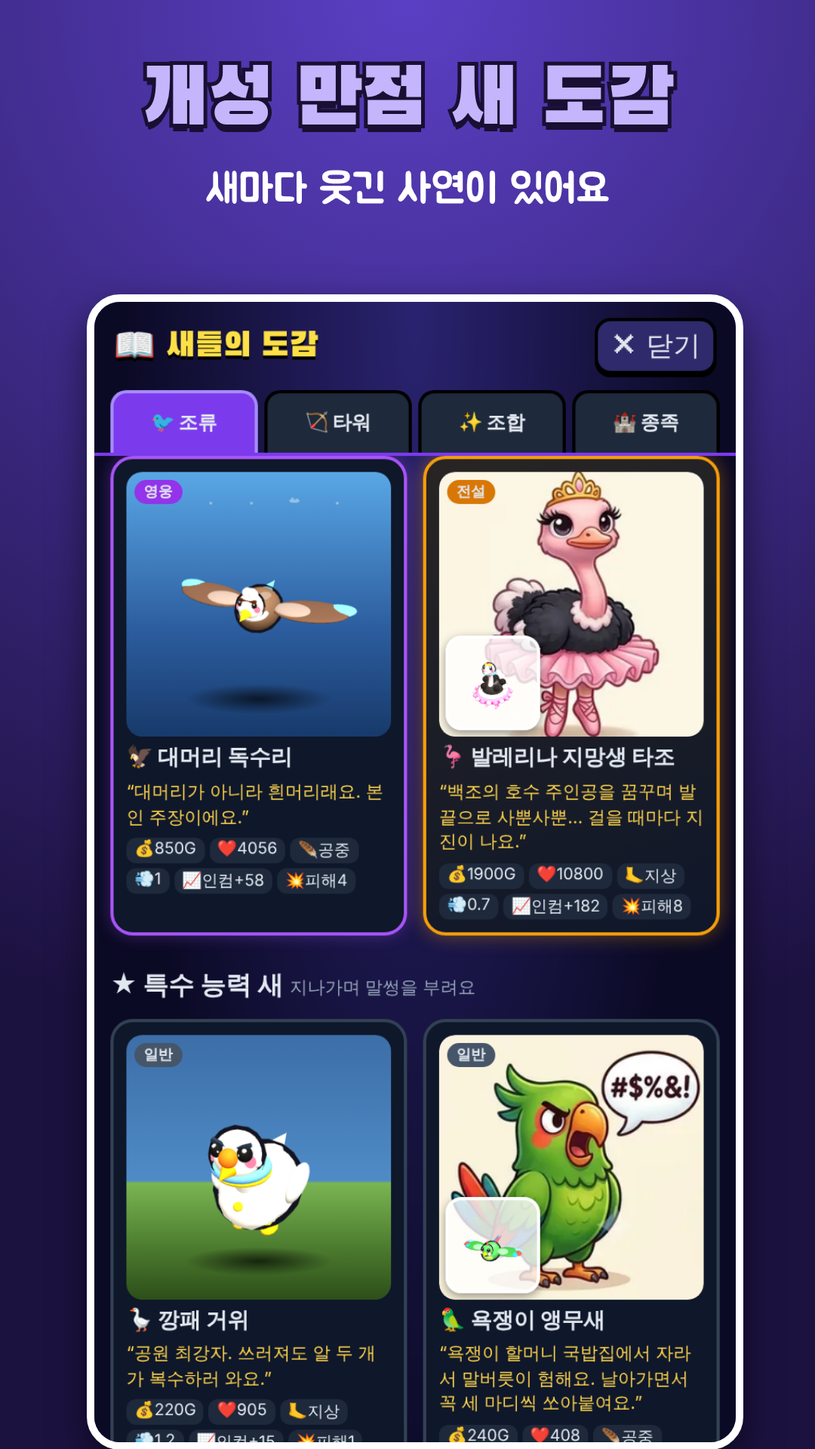
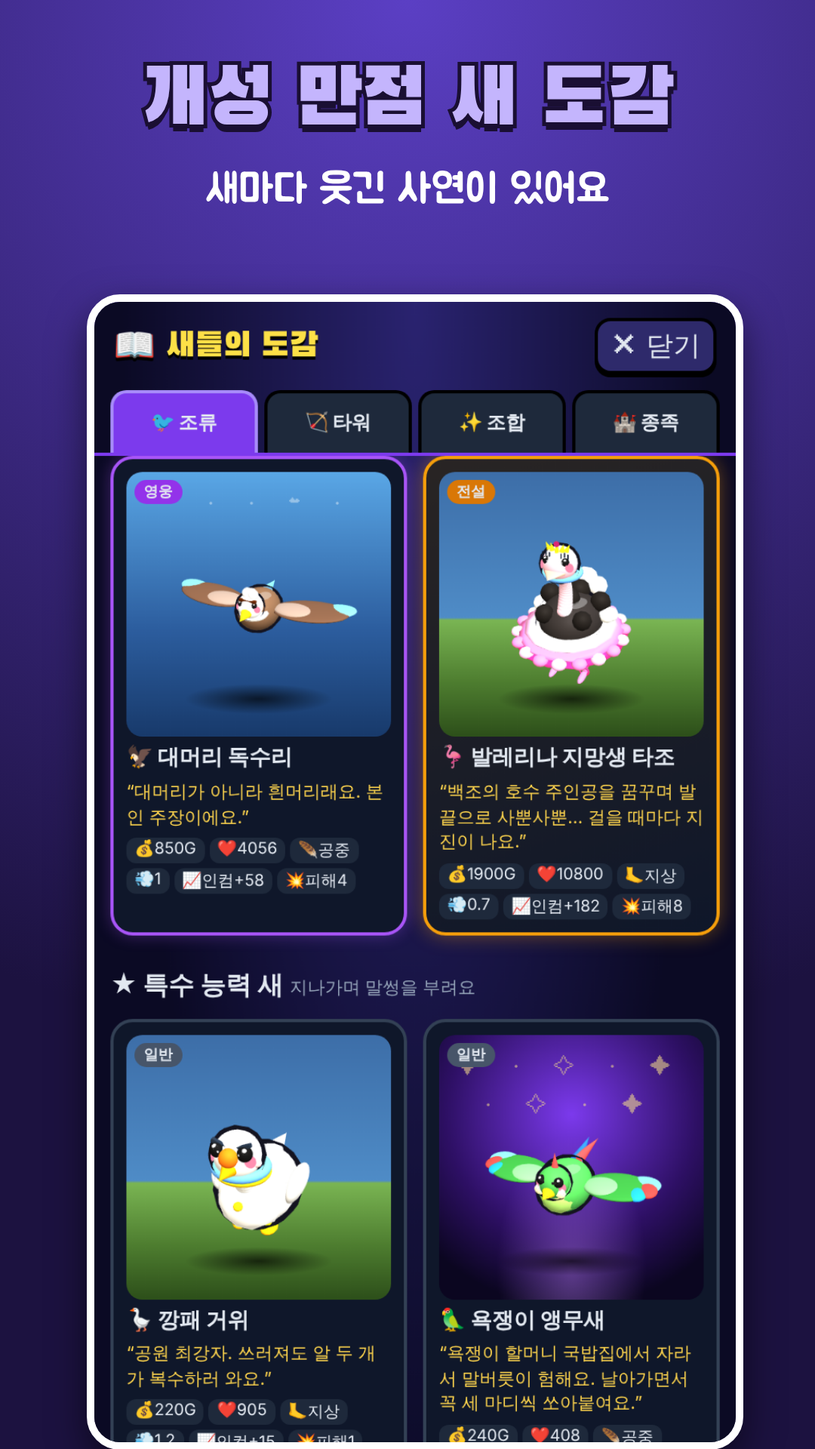
도감 일러스트 되돌리기(3D 썸네일 복원), 저장 초기화 버튼·?reset=1, 영웅 새 다듬기
- 영웅: 공중 새도 날개 접고 서 있게, 게임판용 외곽선·팀 고리 숨김, 전용 모자 있는 새는 영웅 모자 생략
- 앵무새 날개 끝 색은 날 때만
- 스토어 스크린샷 6번(도감)을 3D 썸네일로 다시 찍음

Claude-Session: https://claude.ai/code/session_01WdwmgQ1X9No8TXxhVpqQwz

Changed region(s): [[0.5194, 0.6875, 0.8861, 0.9062], [0.5194, 0.3125, 0.8861, 0.5312]]

diff --git a/index.html b/index.html
@@ -86,7 +86,7 @@
 <div id="tipm" class="dexm"><div class="dexh"><b>💡 게임 설명 · 팁</b><button id="tipx">✕ 닫기</button></div><div class="tipb"><div class="card"><b style="font-size:17px">📌 기본 설명</b><ul class="bs"><li>🎲 유닛을 보내면 상대 진영 입구 7칸 중 랜덤 1곳에서 출발하고, 보낼 때마다 4초마다 받는 인컴이 영구 증가해요.</li><li>🔮 속성 5종 중 2개를 골라요. 첫 속성은 무료, 두 번째는 300G이고 조합마다 전용 타워와 새가 열려요.</li><li>⏰ 7분부터 탈출한 새의 피해가 2배, 9분부터 3배가 돼요.</li><li>👀 도감 확인과 상대 정찰이 중요해요. 미니맵을 눌러 다른 진영을 보세요.</li></ul></div><div class="card"><b style="font-size:17px">🏹 타워 성격</b><ul class="bs"><li>⚡ <b>연사형</b>(공격 간격 0.8초 이하): 계속 쏠수록 공속이 최대 +50%까지 빨라지고, 적이 없으면 천천히 식어요.</li><li>💥 <b>강타형</b>(1.5초 이상): 3번째 공격마다 치명타 ×2, 맞은 새의 최대 체력 3%를 추가로 깎아요. 덩치 큰 새 담당!</li><li>☠ <b>독</b>: 맞을 때마다 독이 최대 5중첩. 광역 독 타워는 초록 독연기를 2.5초 남겨 지나가는 새에게 계속 독을 묻혀요.</li><li>🔥 <b>화상</b>: 중첩은 없지만 강하고, 불탄 채 쓰러지면 옆 새에게 불이 옮겨붙어요.</li><li>💰 강화 비용이 레벨마다 가파르게 올라요(1→2: 105%, 2→3: 252%, 3→4: 441%). 무작정 강화보다 배치가 중요해요.</li></ul></div>
 <h3>🪶 모드 · 깃털 코인</h3><ul class="bs"><li>🐥 <b>일반 모드</b>: 종족 없이 모든 새·타워를 공용으로 써요.</li><li>🪶 <b>승리하면 깃털 코인</b>을 얻어요. 난이도가 높을수록 많이 줘요.</li><li>🏰 코인을 모으면 <b>종족 모드</b>를 해금하고 종족 1개를 무료로 고를 수 있어요. 이후 종족은 코인으로 하나씩 해금해요.</li></ul>
 <h3>📌 게임 규칙 전체</h3><ul class="bs"><li>🏰 시작 전에 <b>종족</b>을 골라요. 종족마다 전용 타워 2종, 전용 새 2종, 고유 특성이 달라요. 상대 AI도 각자 다른 종족으로 나와요.</li><li>🎲 유닛을 보내면 상대 진영 입구 7칸 중 랜덤 1곳에서 출발해요.</li><li>💰 유닛을 보낼 때마다 4초마다 받는 인컴이 영구 증가해요.</li><li>⬡ 타일이 육각형이라 유닛이 6방향으로 길을 찾아요.</li><li>🔮 속성 5종(화염·빙결·뇌전·폭풍·독) 중 2개를 골라요. 첫 속성은 무료, 두 번째는 300G예요.</li><li>✨ 두 속성의 조합마다 전용 타워와 새가 열려요 (10가지 조합).</li><li>🌟 속성 2개를 고르면 조합 스킬을 1500G에 해금할 수 있어요 (미니맵 위 버튼).</li><li>⏰ 7분부터 탈출한 새의 피해가 2배, 9분부터 3배가 돼요.</li><li>📖 <b>도감 확인은 필수예요!</b> 새·타워의 숨은 능력, 속성 조합, 수상한 알의 비밀까지 도감에서 확인하세요.</li><li>👀 <b>상대 정찰도 중요한 전략이에요.</b> 미니맵을 눌러 다른 진영의 미로와 타워를 보고, 잘 뚫릴 새를 골라 보내세요.</li><li>🚫 첫 줄·마지막 줄에는 건설할 수 없고, 길을 완전히 막을 수 없어요.</li><li>🎯 적을 처치하면 유닛 가격의 10%를 보상으로 받아요.</li></ul>
-<h3>🛠 업데이트 내역</h3><details class="card" open><summary><b>🛠 패치 노트</b> <small class="m">(눌러서 펼치기)</small></summary><ul><li><b>v11.7</b> 📘 첫 판 튜토리얼(설명 화면에서 다시 보기) · 🖼 도감에 새 일러스트 24종 · 🎨 타조·회장닭·앵무새·펠리컨·악어새·오리·올빼미 등 3D 모습 다듬기</li><li><b>v11.6</b> 🔊 효과음을 실제 녹음 소리로: 버튼 딸깍, 건설 나무 소리, 철거 동전 짤랑, 새 쓰러짐 타격음, 라이프 피해 펀치, 탈락·후반 경고 종소리, 부화 알 깨짐, 승리·패배·해금 짧은 음악. 효과음: Kenney 오디오 팩 (CC0, kenney.nl)</li><li><b>v11.5</b> 🏝 게임판이 진짜 3D 육각 타일로! 진영마다 지형이 달라요: 🌿풀밭 · 🏜사막 · ⛰바위산 · 🪵흙 · 🏝바닷가 섬. 게임판 바깥엔 숲·언덕·산·바다·섬 타일 풍경. 3D 타일: Kenney Hexagon Kit (CC0, kenney.nl)</li><li><b>v11.4</b> 🏁 게임이 끝나면 <b>결과 표</b>: 8명의 등수(🥇🥈🥉)·인컴·상대에게 준 라이프 피해·막은 새·버틴 시간을 한눈에 (관전 후·온라인에서도). 🪶 공중 새 인컴 20% 하향 — 미로를 무시하는 대신 돈을 덜 벌어요</li><li><b>v11.3</b> 🐝 새 유닛 <b>윙윙 벌새 떼</b>(360G · 지상): 벌+벌새 모습, 5~7마리 떼로 등장, 강타형 타워(공격 간격 1.5초 이상)의 피해를 절반만 받아요 — 광역·연사 타워에 약해요. 🚌 새 유닛 <b>만원 버스 펠리컨</b>(3000G · 공중): 격추되면 부리 주머니에서 승객 새 8마리가 쏟아져 그 자리부터 걸어가요</li><li><b>v11.2</b> 🎨 만화풍 전투 화면: 상점이 3D 초상화 카드로(등급별 색 · 영웅/전설 리본, 선택하면 통통), 타워가 맞힐 때 피해 숫자가 톡톡(치명타는 노랗게), 큰 새 격추 시 "💥 격추!" 배너, 강화 타워 머리 위 ★별 뱃지, 모든 새에 만화풍 외곽선. 휴대폰이 느려지면 피해 숫자는 자동으로 꺼져요</li><li><b>v11.1</b> 🧩 난이도별 AI 미로: 🐓숙련 = 넓은 가로 뱀(길 ×1.9) · 🦅어려움 = 넓은 세로 뱀·대각선 뱀·빗살 중 하나(×2.2~2.6) · 🔥헬 = 가로 뱀·홀수 줄 가로 뱀·혼합·세로 뱀 중 하나(×2.5~3.0). 미로는 AI마다 좌우가 달라요. 헬 AI는 미로에 방해되면 가운데 알 타워도 철거해요. 미니맵으로 상대 미로를 정찰해 보세요!</li><li><b>v11.0</b> 🐍 <b>어려움·헬 AI가 뱀 모양 미로</b>를 짜요: 가로 줄을 한 줄 걸러 쌓고 끝 칸을 번갈아 비워 새가 좌우로 왕복하게 만들어요(AI마다 방향이 달라요). 시뮬레이션에서 이 방식은 우승 확률이 일반 AI의 약 2.7배(34%)였어요. 공중 새와 황새로 뚫어 보세요!</li><li><b>v10.9</b> 🎨 디자인 다듬기: 게임 화면(위쪽 바·골드 줄·탭·상점 버튼·정보 줄·옆 패널), 결과창, 도감·설명 화면을 로비와 같은 만화풍(굵은 테두리 + 그림자)으로 통일, 상점 글씨 키움. 📱 앱 아이콘(왕관 병아리)과 홈 화면에 설치하기(PWA) 지원</li><li><b>v10.8</b> 🌐 <b>8인 온라인 대전 (베타)</b>: 모드 선택 → 8인 온라인 대전 → 방 만들기로 5자리 방 코드와 초대 링크를 만들고, 친구는 코드를 넣거나 링크를 눌러 참가해요. 빈자리는 AI가 채워요. 방장 휴대폰이 게임을 계산하니 방장은 화면을 켜 두세요. (일반 모드만, 수상한 알 연구소는 방장만)</li><li><b>v10.7</b> 🐊 새 유닛 <b>악어 치과의사 악어새</b>(1600G · 타조 다음으로 튼튼): 악어를 타고 와요. 체력이 35% 아래로 떨어지면 악어가 화나서 1.6배 빨라져요(입을 쩍쩍 벌려요). 🧹 쓸데없는 몸 고리 정리: 종족 새 8종·백조·천둥새·불사조·태풍 독수리·오로라 덕후의 고리 삭제(팀 색 목걸이는 유지, 보호막은 체력바 색으로 표시)</li><li><b>v10.6</b> 🐣 부화 병아리 8종 새 모습: 둥근 병아리 몸 + 🐣 갓깬 삐약이(물음표) · 🍳 맥반석(구운 껍데기·양머리 수건) · 🍦 아이스(와플콘·소프트아이스크림) · 🔋 찌릿(정전기 머리) · 🎈 풍선(풍선 3개, 가운데는 팀 색) · 💨 방귀(기저귀·방귀 구름) · 🌟 황금(황금 껍데기·반짝이·동전) · 🦖 티라노(이빨·배 무늬)</li><li><b>v10.5</b> 🎭 새 이름·모습 변경: 🩰 <b>발레리나 지망생 타조</b>(튜튜·티아라·토슈즈) · 🎩 <b>알부자 회장닭</b>(실크햇·외알 안경·금목걸이) · 🛟 <b>피서 중인 튜브 오리</b>(튜브·선글라스·밀짚모자) · 🦜 <b>욕쟁이 앵무새</b>(날아가며 말풍선으로 세 마디!) · 🥁 <b>각설이 도도새</b>(새끼줄 머리띠·누더기·깡통·엿가위, 품바 춤) · 🥚 <b>펭귄알 소매치기</b>(남극 도둑갈매기, 펭귄알을 훔쳐 날아요)</li><li><b>v10.4</b> 👀 탈락해도 바로 끝나지 않아요: <b>관전하기</b>를 누르면 남은 AI들의 대결을 끝까지 볼 수 있어요(미니맵으로 진영 전환, 🚪 버튼으로 언제든 나가기). 탈락 화면에서 관전하기 · 다시 도전 · 나가기 중 선택</li><li><b>v10.3</b> 🎨 새 디자인 대개편: 나는 새 날개를 새 몸 색의 깃털 날개로(팀 색은 날개 끝), 땅 새는 몸 옆에 접힌 날개. 🪵 딱따구리(빨간 모자·끌 부리·쪼기 동작) · 💪 근육 타조(털 뭉치 몸·챔피언 벨트) · 🐧 펭귄 삼형제 · 🦤 도도 · 🦢 백조(S자 목) · 🦃 칠면조(중절모·부채 꼬리) · 🐥 병아리 · 🥚 수상한 알(줄무늬 양말 다리로 아장아장) 새 모양. 🦩 <b>육아휴직 황새</b>: 긴 다리로 타워를 넘어 직진. 종족 새 8종 별명 추가</li><li><b>v10.2</b> ✈ 바람 속성 2단계 타워 교체: 강풍 선풍기 → <b>비눗방울 막대</b>(새를 방울에 가둬 1.4초 둥실 띄우고, 터질 때 2배 피해 · 갇힌 지상 새는 대공 타워에도 맞아요 · 넉백 면역 새는 안 갇혀요). 진화: 비눗방울 기계 → 비눗방울 대포 → 거품 목욕탕 대왕</li><li><b>v10.1</b> 🪶 일반 모드 + 종족 모드 통합: 시작 화면에서 모드 선택, 일반 모드 승리로 깃털 코인 획득 → 코인으로 종족 모드 해금(종족 1개 무료 선택) → 이후 종족은 코인으로 해금. 첫 화면 간소화(기본 설명 4줄 + 상세보기·팁)</li><li><b>v10.0</b> 🏰 종족전: 오리지널 새 종족 4종(🏰둥지 연합 · 🦅맹금 군단 · 🌙황혼 깃털단 · 🌿숲 지킴이), 종족별 고유 특성·전용 타워 8종·전용 새 8종, 종족 도감 탭, AI도 종족을 골라 싸워요</li><li><b>v9.11</b> 🎚 난이도 5단계(🐣쉬움 · 🐥일반 · 🐓숙련 신규 · 🦅어려움 · 🔥헬). 🧬 타워 진화: 강화 Lv.1~4마다 이름과 모양이 바뀌어요(예: 알까기 새총 → 새권총 → 새개틀링건). 도감에서 진화 단계 확인. 🎨 타워 33종 모양을 이름에 맞게 새로 디자인. 정보 패널 높이 고정(보드 흔들림 수정), 부엉이 CCTV는 감지 범위 표시</li><li><b>v9.10</b> 🎚 난이도 4단계, 길찾기 좌우 편향 수정, 도감·정찰 안내</li><li><b>v9.9</b> 🍤 과자 연속 5개, 📹 부엉이 CCTV(은신 감지)</li><li><b>v9.8</b> 🔗 참새 전봇대: 지상 ×0.8 · 공중 ×2.4 감전</li><li><b>v9.7</b> 🎯 내 새 추적 미니맵(오른쪽 위)</li><li><b>v9.6</b> 🍤 과자 뿌리개, 🔗 참새 전봇대, 🥅 잠자리채 그물포 공용 타워 3종</li><li><b>v9.5</b> 🏢 스튜디오 첫 스프린트: 🔊 효과음·칩튠 배경음악, 🎨 새 표정·맵 장식·파티클, 🥚 수상한 알 연구소(한 판 단위 해금), 🧪 QA 수정</li><li><b>v9.4</b> 📖 3페이지 카드 도감, 🎭 웃긴 이름과 개그 설명</li><li><b>v9.3</b> 메모리 누수·경제 폭주 수정, 맵 7×16, 넉백 쿨다운, 알 강화 표시, 조합 스킬 10종, 5초 카운트다운, 500판 밸런스(평균 8분 50초)</li><li><b>v9.2</b> 🐛 AI 미작동 버그 수정, 🔮 속성 2개 선택 + ✨ 조합 타워·새 10종, 상점 6칸</li><li><b>v9.1</b> 🔮 속성 테크 5종, 새 9종 추가(거위·까마귀·딱따구리·백조·공작·송골매·황제펭귄·알바트로스·천둥새), 📖 조류 도감</li><li><b>v9.0</b> ⬡ 육각 타일 맵(6방향 길찾기), 유닛 체력 2배 밸런스, AI 7명 시뮬레이션 100판 학습</li><li><b>v8.3</b> 보드 확대·미니맵 우하단 이동·하단 UI 가림 수정, AI 개성화(매 판 목표·건설 순서 변화, 수시 기분 전환, 위협 반응), 8분에 타이탄 6마리를 막는 방어력 목표(화면의 🛡 100% = 목표), 정찰 중 타워 상점을 누르면 내 화면으로 복귀</li><li><b>v8.2</b> 인컴 주기 4초·유닛 인컴 +40%, AI 시뮬레이션 미로 배치(경로 길이 계산), 내 경로 표시, 강화 버튼 개선, 관전 중 AI 성향 표시</li><li><b>v8.1</b> 유닛 16종·타워 9종 세부 3D 모델 (천둥: 테슬라 코일 / 바람: 회오리+풍차), 날갯짓·회전 애니메이션</li><li><b>v8.1</b> AI가 인컴이 목표보다 낮을수록 유닛을 더 자주 소환해요</li><li><b>v8.1</b> 매 판 내 자리가 1~8번 중 랜덤으로 배정돼요</li><li><b>v8.0</b> 7인 AI 성향 분리, 게임 시간 표시, 입구 8칸 경로 검증, 적 처치 보상</li></ul></details>
+<h3>🛠 업데이트 내역</h3><details class="card" open><summary><b>🛠 패치 노트</b> <small class="m">(눌러서 펼치기)</small></summary><ul><li><b>v11.7</b> 📘 첫 판 튜토리얼(설명 화면에서 다시 보기) · 🗑 설명 화면에 '처음부터 다시' 초기화 버튼 · 🦸 영웅 새 다듬기(공중 새도 서 있게, 외곽선·모자 겹침 정리) · 🎨 타조·회장닭·앵무새·펠리컨·악어새·오리·올빼미 등 3D 모습 다듬기</li><li><b>v11.6</b> 🔊 효과음을 실제 녹음 소리로: 버튼 딸깍, 건설 나무 소리, 철거 동전 짤랑, 새 쓰러짐 타격음, 라이프 피해 펀치, 탈락·후반 경고 종소리, 부화 알 깨짐, 승리·패배·해금 짧은 음악. 효과음: Kenney 오디오 팩 (CC0, kenney.nl)</li><li><b>v11.5</b> 🏝 게임판이 진짜 3D 육각 타일로! 진영마다 지형이 달라요: 🌿풀밭 · 🏜사막 · ⛰바위산 · 🪵흙 · 🏝바닷가 섬. 게임판 바깥엔 숲·언덕·산·바다·섬 타일 풍경. 3D 타일: Kenney Hexagon Kit (CC0, kenney.nl)</li><li><b>v11.4</b> 🏁 게임이 끝나면 <b>결과 표</b>: 8명의 등수(🥇🥈🥉)·인컴·상대에게 준 라이프 피해·막은 새·버틴 시간을 한눈에 (관전 후·온라인에서도). 🪶 공중 새 인컴 20% 하향 — 미로를 무시하는 대신 돈을 덜 벌어요</li><li><b>v11.3</b> 🐝 새 유닛 <b>윙윙 벌새 떼</b>(360G · 지상): 벌+벌새 모습, 5~7마리 떼로 등장, 강타형 타워(공격 간격 1.5초 이상)의 피해를 절반만 받아요 — 광역·연사 타워에 약해요. 🚌 새 유닛 <b>만원 버스 펠리컨</b>(3000G · 공중): 격추되면 부리 주머니에서 승객 새 8마리가 쏟아져 그 자리부터 걸어가요</li><li><b>v11.2</b> 🎨 만화풍 전투 화면: 상점이 3D 초상화 카드로(등급별 색 · 영웅/전설 리본, 선택하면 통통), 타워가 맞힐 때 피해 숫자가 톡톡(치명타는 노랗게), 큰 새 격추 시 "💥 격추!" 배너, 강화 타워 머리 위 ★별 뱃지, 모든 새에 만화풍 외곽선. 휴대폰이 느려지면 피해 숫자는 자동으로 꺼져요</li><li><b>v11.1</b> 🧩 난이도별 AI 미로: 🐓숙련 = 넓은 가로 뱀(길 ×1.9) · 🦅어려움 = 넓은 세로 뱀·대각선 뱀·빗살 중 하나(×2.2~2.6) · 🔥헬 = 가로 뱀·홀수 줄 가로 뱀·혼합·세로 뱀 중 하나(×2.5~3.0). 미로는 AI마다 좌우가 달라요. 헬 AI는 미로에 방해되면 가운데 알 타워도 철거해요. 미니맵으로 상대 미로를 정찰해 보세요!</li><li><b>v11.0</b> 🐍 <b>어려움·헬 AI가 뱀 모양 미로</b>를 짜요: 가로 줄을 한 줄 걸러 쌓고 끝 칸을 번갈아 비워 새가 좌우로 왕복하게 만들어요(AI마다 방향이 달라요). 시뮬레이션에서 이 방식은 우승 확률이 일반 AI의 약 2.7배(34%)였어요. 공중 새와 황새로 뚫어 보세요!</li><li><b>v10.9</b> 🎨 디자인 다듬기: 게임 화면(위쪽 바·골드 줄·탭·상점 버튼·정보 줄·옆 패널), 결과창, 도감·설명 화면을 로비와 같은 만화풍(굵은 테두리 + 그림자)으로 통일, 상점 글씨 키움. 📱 앱 아이콘(왕관 병아리)과 홈 화면에 설치하기(PWA) 지원</li><li><b>v10.8</b> 🌐 <b>8인 온라인 대전 (베타)</b>: 모드 선택 → 8인 온라인 대전 → 방 만들기로 5자리 방 코드와 초대 링크를 만들고, 친구는 코드를 넣거나 링크를 눌러 참가해요. 빈자리는 AI가 채워요. 방장 휴대폰이 게임을 계산하니 방장은 화면을 켜 두세요. (일반 모드만, 수상한 알 연구소는 방장만)</li><li><b>v10.7</b> 🐊 새 유닛 <b>악어 치과의사 악어새</b>(1600G · 타조 다음으로 튼튼): 악어를 타고 와요. 체력이 35% 아래로 떨어지면 악어가 화나서 1.6배 빨라져요(입을 쩍쩍 벌려요). 🧹 쓸데없는 몸 고리 정리: 종족 새 8종·백조·천둥새·불사조·태풍 독수리·오로라 덕후의 고리 삭제(팀 색 목걸이는 유지, 보호막은 체력바 색으로 표시)</li><li><b>v10.6</b> 🐣 부화 병아리 8종 새 모습: 둥근 병아리 몸 + 🐣 갓깬 삐약이(물음표) · 🍳 맥반석(구운 껍데기·양머리 수건) · 🍦 아이스(와플콘·소프트아이스크림) · 🔋 찌릿(정전기 머리) · 🎈 풍선(풍선 3개, 가운데는 팀 색) · 💨 방귀(기저귀·방귀 구름) · 🌟 황금(황금 껍데기·반짝이·동전) · 🦖 티라노(이빨·배 무늬)</li><li><b>v10.5</b> 🎭 새 이름·모습 변경: 🩰 <b>발레리나 지망생 타조</b>(튜튜·티아라·토슈즈) · 🎩 <b>알부자 회장닭</b>(실크햇·외알 안경·금목걸이) · 🛟 <b>피서 중인 튜브 오리</b>(튜브·선글라스·밀짚모자) · 🦜 <b>욕쟁이 앵무새</b>(날아가며 말풍선으로 세 마디!) · 🥁 <b>각설이 도도새</b>(새끼줄 머리띠·누더기·깡통·엿가위, 품바 춤) · 🥚 <b>펭귄알 소매치기</b>(남극 도둑갈매기, 펭귄알을 훔쳐 날아요)</li><li><b>v10.4</b> 👀 탈락해도 바로 끝나지 않아요: <b>관전하기</b>를 누르면 남은 AI들의 대결을 끝까지 볼 수 있어요(미니맵으로 진영 전환, 🚪 버튼으로 언제든 나가기). 탈락 화면에서 관전하기 · 다시 도전 · 나가기 중 선택</li><li><b>v10.3</b> 🎨 새 디자인 대개편: 나는 새 날개를 새 몸 색의 깃털 날개로(팀 색은 날개 끝), 땅 새는 몸 옆에 접힌 날개. 🪵 딱따구리(빨간 모자·끌 부리·쪼기 동작) · 💪 근육 타조(털 뭉치 몸·챔피언 벨트) · 🐧 펭귄 삼형제 · 🦤 도도 · 🦢 백조(S자 목) · 🦃 칠면조(중절모·부채 꼬리) · 🐥 병아리 · 🥚 수상한 알(줄무늬 양말 다리로 아장아장) 새 모양. 🦩 <b>육아휴직 황새</b>: 긴 다리로 타워를 넘어 직진. 종족 새 8종 별명 추가</li><li><b>v10.2</b> ✈ 바람 속성 2단계 타워 교체: 강풍 선풍기 → <b>비눗방울 막대</b>(새를 방울에 가둬 1.4초 둥실 띄우고, 터질 때 2배 피해 · 갇힌 지상 새는 대공 타워에도 맞아요 · 넉백 면역 새는 안 갇혀요). 진화: 비눗방울 기계 → 비눗방울 대포 → 거품 목욕탕 대왕</li><li><b>v10.1</b> 🪶 일반 모드 + 종족 모드 통합: 시작 화면에서 모드 선택, 일반 모드 승리로 깃털 코인 획득 → 코인으로 종족 모드 해금(종족 1개 무료 선택) → 이후 종족은 코인으로 해금. 첫 화면 간소화(기본 설명 4줄 + 상세보기·팁)</li><li><b>v10.0</b> 🏰 종족전: 오리지널 새 종족 4종(🏰둥지 연합 · 🦅맹금 군단 · 🌙황혼 깃털단 · 🌿숲 지킴이), 종족별 고유 특성·전용 타워 8종·전용 새 8종, 종족 도감 탭, AI도 종족을 골라 싸워요</li><li><b>v9.11</b> 🎚 난이도 5단계(🐣쉬움 · 🐥일반 · 🐓숙련 신규 · 🦅어려움 · 🔥헬). 🧬 타워 진화: 강화 Lv.1~4마다 이름과 모양이 바뀌어요(예: 알까기 새총 → 새권총 → 새개틀링건). 도감에서 진화 단계 확인. 🎨 타워 33종 모양을 이름에 맞게 새로 디자인. 정보 패널 높이 고정(보드 흔들림 수정), 부엉이 CCTV는 감지 범위 표시</li><li><b>v9.10</b> 🎚 난이도 4단계, 길찾기 좌우 편향 수정, 도감·정찰 안내</li><li><b>v9.9</b> 🍤 과자 연속 5개, 📹 부엉이 CCTV(은신 감지)</li><li><b>v9.8</b> 🔗 참새 전봇대: 지상 ×0.8 · 공중 ×2.4 감전</li><li><b>v9.7</b> 🎯 내 새 추적 미니맵(오른쪽 위)</li><li><b>v9.6</b> 🍤 과자 뿌리개, 🔗 참새 전봇대, 🥅 잠자리채 그물포 공용 타워 3종</li><li><b>v9.5</b> 🏢 스튜디오 첫 스프린트: 🔊 효과음·칩튠 배경음악, 🎨 새 표정·맵 장식·파티클, 🥚 수상한 알 연구소(한 판 단위 해금), 🧪 QA 수정</li><li><b>v9.4</b> 📖 3페이지 카드 도감, 🎭 웃긴 이름과 개그 설명</li><li><b>v9.3</b> 메모리 누수·경제 폭주 수정, 맵 7×16, 넉백 쿨다운, 알 강화 표시, 조합 스킬 10종, 5초 카운트다운, 500판 밸런스(평균 8분 50초)</li><li><b>v9.2</b> 🐛 AI 미작동 버그 수정, 🔮 속성 2개 선택 + ✨ 조합 타워·새 10종, 상점 6칸</li><li><b>v9.1</b> 🔮 속성 테크 5종, 새 9종 추가(거위·까마귀·딱따구리·백조·공작·송골매·황제펭귄·알바트로스·천둥새), 📖 조류 도감</li><li><b>v9.0</b> ⬡ 육각 타일 맵(6방향 길찾기), 유닛 체력 2배 밸런스, AI 7명 시뮬레이션 100판 학습</li><li><b>v8.3</b> 보드 확대·미니맵 우하단 이동·하단 UI 가림 수정, AI 개성화(매 판 목표·건설 순서 변화, 수시 기분 전환, 위협 반응), 8분에 타이탄 6마리를 막는 방어력 목표(화면의 🛡 100% = 목표), 정찰 중 타워 상점을 누르면 내 화면으로 복귀</li><li><b>v8.2</b> 인컴 주기 4초·유닛 인컴 +40%, AI 시뮬레이션 미로 배치(경로 길이 계산), 내 경로 표시, 강화 버튼 개선, 관전 중 AI 성향 표시</li><li><b>v8.1</b> 유닛 16종·타워 9종 세부 3D 모델 (천둥: 테슬라 코일 / 바람: 회오리+풍차), 날갯짓·회전 애니메이션</li><li><b>v8.1</b> AI가 인컴이 목표보다 낮을수록 유닛을 더 자주 소환해요</li><li><b>v8.1</b> 매 판 내 자리가 1~8번 중 랜덤으로 배정돼요</li><li><b>v8.0</b> 7인 AI 성향 분리, 게임 시간 표시, 입구 8칸 경로 검증, 적 처치 보상</li></ul></details>
 </div></div>
 <div id="dexm" class="dexm"><div class="dexh"><b>📖 새들의 도감</b><button id="dexx">✕ 닫기</button></div><div class="dext" id="dext"><button data-p="u" class="on">🐦 조류</button><button data-p="t">🏹 타워</button><button data-p="c">✨ 조합</button><button data-p="r">🏰 종족</button></div><div id="dexb" class="dexb"></div></div><div id="end"><div><div id="eT" style="font-size:44px"></div><h2 id="eH" style="margin:6px 0"></h2><p id="eP" class="m"></p><div id="eres"></div><div id="ew"></div>
 <button class="big" id="spec" style="display:none;background:#2563eb;margin-bottom:10px">👀 관전하기</button><button class="big" id="again">다시 도전</button><br><br><button id="home" style="width:100%;padding:10px">🚪 나가기 (메인 화면)</button></div></div>

diff --git a/js/game.js b/js/game.js
@@ -613,7 +613,7 @@ function birdMesh2(b,oc){const g=new THREE.Group(),id=b.id,A=b.t==='A',c=b.col,w
   const bk={kiwi:[.025,.42,0xd97706],duck:[.08,.2,0xfacc15],dodo:[.1,.32,0xf4a259],swan:[.045,.14,0xf97316],penguin:[.035,.13,0x1f2937],frostpeng:[.035,.13,0x312e81],crane:[.035,.28,0xd6d3a0],blizgull:[.04,.22,0xf97316],stormeagle:[.07,.22,0xfacc15],comet:[.05,.14,0xfacc15],eagle:[.07,.22,0xfacc15],parrot:[.07,.16,0xfacc15],owl:[.04,.1,0xca8a04],ostrich:[.06,.17,0xe0a088],knight:[.04,.34,0xef4444],humbee:[.016,.3,0x111827],pelican:[.07,.5,0xf59e0b],crocbird:[.035,.15,0x1f2937],woodpecker:[.035,.3,0x57534e],turkey:[.05,.14,0xf59e0b]}[id]||[.055,.16,0xf59e0b];
   const k=KO(bk[0],bk[1],bk[2]);k.rotation.z=PI;at(k,0,hy-hr-bk[1]/2+.04,hz-.03,id==='duck'?[1.8,1,.5]:tall?[1.6,1,.55]:null)}
  if(id!=='kiwi'&&id!=='egg_legs'&&!PENG[id]&&!tall){const big=['eagle','phoenix','owl','vampire','stormeagle','auroraowl','pelican'].includes(id),wl=A?(big?.46:id==='hatch_wind'?.17:.34):.15,wc=WINGC[id]??(A?dkn3(c,.85):c);
-  [-1,1].forEach(s=>{const P=new THREE.Group();P.position.set(s*.2,0,z0+.06);g.add(P);const W=SP(1,A?wc:(WINGC[id]??dkn3(c,.88)),id==='phoenix'?GL(0xf97316):{});if(A){W.scale.set(wl,.25,.045);W.position.set(s*wl*.95,.04,0)}else{W.scale.set(.06,.19,.12);W.position.set(s*.05,.03,-.02);W.rotation.y=s*.25}if(A)W.rotation.z=s*.2;if(id==='swan'){W.rotation.y=-s*.4;W.position.set(s*wl*.9,.04,wl*.39)}if(id==='parrot')[[0xe53935,1.75,.07],[0x1e88e5,1.5,-.02]].forEach(([q,k,y])=>{const t=SP(1,q);t.scale.set(wl*.3,.13,.04);t.position.set(s*wl*k,y,0);t.rotation.z=s*.2;P.add(t)});P.add(W);
+  [-1,1].forEach(s=>{const P=new THREE.Group();P.position.set(s*.2,0,z0+.06);g.add(P);const W=SP(1,A?wc:(WINGC[id]??dkn3(c,.88)),id==='phoenix'?GL(0xf97316):{});if(A){W.scale.set(wl,.25,.045);W.position.set(s*wl*.95,.04,0)}else{W.scale.set(.06,.19,.12);W.position.set(s*.05,.03,-.02);W.rotation.y=s*.25}if(A)W.rotation.z=s*.2;if(id==='swan'){W.rotation.y=-s*.4;W.position.set(s*wl*.9,.04,wl*.39)}if(id==='parrot'&&A)[[0xe53935,1.75,.07],[0x1e88e5,1.5,-.02]].forEach(([q,k,y])=>{const t=SP(1,q);t.scale.set(wl*.3,.13,.04);t.position.set(s*wl*k,y,0);t.rotation.z=s*.2;P.add(t)});P.add(W);
    if(A&&id!=='vampire'){const cv=SP(1,ltn3(wc));cv.scale.set(wl*.55,.16,.05);cv.position.set(s*wl*.55,-.03,id==='swan'?wl*.22+.012:.012);if(id==='swan')cv.rotation.y=-s*.4;P.add(cv)}
    if(A){const tp=SP(1,oc);tp.scale.set(wl*.5,.15,.035);tp.rotation.z=s*.45;tp.position.set(s*wl*1.6,.16,id==='swan'?wl*.72:0);if(id==='swan')tp.rotation.y=-s*.4;P.add(tp);w.push(P)}})}
  if(PENG[id])at(TR(.22,.025,oc),0,0,.5);else if(CHICKY[id])at(TR(.2,.028,oc),0,-.02,.44);else if(id==='crocbird')at(TR(.12,.025,oc),0,-.13,.6);else if(id==='swan')at(TR(.085,.025,oc),0,-.12,.6);else if(!A&&id!=='egg_legs')at(TR(.15,.03,oc),0,hy+.05,hz-.1);
@@ -2339,9 +2339,7 @@ const dxQ=f=>/^["“]/.test(f||'')?f:'“'+f+'”';const tier=c=>c>=1000?'lg':c>
 const dxBadge=x=>x.race?`<em>${RACE[x.race].ic} ${RACE[x.race].n} 전용</em>`:x.tech?`<em>${TECH[x.tech].ic} ${TECH[x.tech].n} 전용</em>`:x.combo?`<em>${x.combo.map(k=>TECH[k].ic).join('')} 조합</em>`:'';
 const DXTH={humbee:'meadow',pelican:'sky',crocbird:'water',penguin:'ice',frostpeng:'ice',blizgull:'ice',auroraowl:'aurora',dodo:'stage',phoenix:'fire',plasmabird:'fire',comet:'sky',swan:'water',duck:'water',seagull:'water',pirate:'ice',albatross:'sky',peacock:'stage',parrot:'stage',rooster:'stage',owl:'night',crow:'night',ghostcrow:'night',vampire:'night',plague:'night',voltbat:'storm',thunderbird:'storm',stormeagle:'storm',crane:'spa',falcon:'sky',eagle:'sky'};
 const dxTh=u=>DXTH[u.id]||(u.hidden||u.id==='egg_legs'?'lab':u.tech==='fire'?'fire':u.tech==='ice'?'ice':u.tech==='thunder'?'storm':u.tech==='wind'?'sky':u.tech==='dark'?'night':u.race?'stage':u.t==='A'?'sky':'meadow');
-// 도감 일러스트(assets/units/*.webp, 256px): 있으면 큰 그림 + 3D 모습은 작은 창으로. 도감을 열 때만 불러와요(lazy)
-const ILL=new Set('chick,egg_legs,turkey,woodpecker,swan,penguin,dodo,parrot,ostrich,eggchief,pelican,crocbird,humbee,duck,crow,owl,hatch_chick,hatch_fire,hatch_ice,hatch_thunder,hatch_wind,hatch_dark,hatch_gold,hatch_dino'.split(','));
-const dxImg=k=>{const d3=DXC[k]?`<img src="${DXC[k]}" alt="">`:'<i class="noimg">🐦</i>';if(k.startsWith('u_')&&ILL.has(k.slice(2)))return `<img class="ill" src="assets/units/${k.slice(2)}.webp" loading="lazy" decoding="async" alt="">${DXC[k]?`<img class="d3" src="${DXC[k]}" alt="">`:''}`;return d3};
+const dxImg=k=>DXC[k]?`<img src="${DXC[k]}" alt="">`:'<i class="noimg">🐦</i>';
 function cardU(u){const k=tier(u.c);return `<div class="cd ${k}"><div class="ci" data-th="${dxTh(u)}">${dxImg('u_'+u.id)}<span class="tr ${k}">${TIERN[k]}</span>${dxBadge(u)}</div><div class="cn">${u.ic} ${u.n}</div><div class="cf">${dxQ(u.fl)}</div>
  <div class="cs"><span>💰${u.c}G</span><span>❤${u.hp}</span><span>${u.t==='A'?'🪶공중':'🦶지상'}</span><span>💨${u.sp}</span><span>📈인컴+${u.inc}</span><span>💥피해${u.dm}</span></div>${u.x?`<div class="cx">✨ ${u.x}</div>`:''}</div>`}
 function cardT(t){const k=t.combo?'lg':t.race?'ep':t.tech?(t.c>=380?'ep':'rr'):'cm',tg=t.t==='A'?'공중만':t.t==='G'?'지상만':'공중+지상';
@@ -2424,10 +2422,11 @@ if(!SV.hero||!UB[SV.hero.id])SV.hero={id:'chick',col:null,hat:'crown',face:'none
 function heroTag(){try{return UB[SV.hero.id].ic+SV.hero.name}catch(e){return '나'}}
 const hexS=c=>'#'+c.toString(16).padStart(6,'0');
 function headPos(id){const tall=id==='ostrich',z0=tall?.6:.26+(LIFT[id]||0);if(HEADX[id])return HEADX[id];return{hz:tall?1.3:z0+.2,hy:tall?-.28:-.3,hr:id==='owl'?.2:id==='chick'?.17:.15}}
+const HOWN=new Set(['turkey','pirate','duck','eggchief','comet','thunderbird','ghostcrow','seagull','stormeagle','pelican','blizgull']);
 function heroDeco(m,b,cfg){const{hz,hy,hr}=headPos(b.id),top=hz+hr,g=new THREE.Group();g.name='heroDeco';g.position.y=hy;m.add(g);
  const put=(o,x,y,z,rx,ry,rz,s)=>{o.position.set(x,y,z);o.rotation.set(rx||0,ry||0,rz||0);if(s)o.scale.set(s[0],s[1],s[2]);g.add(o);return o};
  const dome=(r,c)=>M(GC('hdome'+r,()=>new THREE.SphereGeometry(r,22,10,0,PI*2,0,PI/2)),c),GLD={metalness:.55,roughness:.3};
- const h=cfg.hat,f=cfg.face,s1=hr/.15;
+ const h=HOWN.has(b.id)?'none':cfg.hat,f=cfg.face,s1=hr/.15;// 전용 모자가 있는 새는 겹치지 않게 영웅 모자를 안 씌워요
  if(h==='crown'){put(TR(.1*s1,.022,0xfacc15,GLD),0,0,top-.015);for(let i=0;i<5;i++){const a=i*PI*2/5;put(KO(.032,.1,0xfacc15,GLD),Math.cos(a)*.1*s1,Math.sin(a)*.1*s1,top+.035,PI/2)}put(SP(.026,0xef4444),0,-.1*s1,top+.01)}
  else if(h==='beanie'){put(dome(hr*1.06,0xef4444),0,0,hz+hr*.22,PI/2);put(TR(hr*1.0,.032,0xf8fafc),0,0,hz+hr*.25);put(SP(.045,0xf8fafc),0,0,hz+hr*1.3)}
  else if(h==='cap'){put(dome(hr*1.05,0x2563eb),0,0,hz+hr*.25,PI/2);put(BX(.17*s1,.16*s1,.018,0x1d4ed8),0,-hr*.9,hz+hr*.32,-.18);put(SP(.018,0xfde047),0,0,hz+hr*1.3)}
@@ -2441,9 +2440,10 @@ function heroDeco(m,b,cfg){const{hz,hy,hr}=headPos(b.id),top=hz+hr,g=new THREE.G
  else if(f==='pink'){[-1,1].forEach(s=>put(SP(.045,0xf43f5e,{transparent:true,opacity:.8}),s*.08,ey,ez,0,0,0,[1,.3,.85]));put(BX(.06,.015,.012,0xbe123c),0,ey,ez+.01)}
  else if(f==='mono')put(TR(.04,.009,0xfacc15,GLD),.08,ey,ez,PI/2);
  return g}
-function heroMesh(cfg){const b=UB[cfg.id]||UB.chick,m=birdMesh3(b,0x60a5fa);artFx('bird',{m,b,dex:true});
+function heroMesh(cfg){const b0=UB[cfg.id]||UB.chick,b=b0.t==='A'?Object.assign({},b0,{t:'G'}):b0,m=birdMesh3(b,0x60a5fa);artFx('bird',{m,b,dex:true});// 영웅은 받침대 위에 서 있으니 공중 새도 날개 접고 발로 서게
+ m.traverse(o=>{if(o.name==='artOutl'||(o.geometry&&o.geometry.type==='TorusGeometry'&&o.material&&o.material.color&&o.material.color.getHex()===0x60a5fa))o.visible=false;});// 영웅은 가까이 보니까 게임판용 외곽선·팀 고리는 숨겨요
  m.traverse(o=>{if(o.geometry&&o.geometry.type==='PlaneGeometry')o.visible=false;else if(cfg.col!=null&&o.material&&o.material.color&&!(o.name||'').startsWith('art')&&o.material.color.getHex()===b.col)o.material.color.setHex(cfg.col)});
- heroDeco(m,b,cfg);m.userData.b=b;return m}
+ heroDeco(m,b,cfg);m.userData.b=b0;return m}
 const birdAnim=(m,t,walk)=>{(m.userData.w||[]).forEach((q,i)=>q.rotation.y=(i?-1:1)*Math.sin(t*14)*.5);const bd=m.children[0];if(bd)bd.rotation.z=walk?Math.sin(t*12)*.16:Math.sin(t*2)*.04;if(m.userData.an)m.userData.an(t,m)};
 // 공용 렌더러(로비·꾸미기·광장이 돌려 씀)
 let LR=null,LS=null,LC=null,LH=null,LHK='',lobMode='lobby',lobT=0;
@@ -2532,6 +2532,8 @@ function tutOpen(){if(!S||S.net||S.sim||$('tut'))return;const pv=paused;paused=t
  const draw=()=>{const[ic,t,d,h]=TUT[i];hl(h);o.className=h==='lane'?'':'top';o.innerHTML=`<div class="tutc"><div class="tuti">${ic}</div><b>${t}</b><p>${d}</p><div class="tutd">${TUT.map((_,k)=>`<i class="${k===i?'on':''}"></i>`).join('')}</div><div class="tutb"><button class="tsk">건너뛰기</button><button class="tnx">${i<TUT.length-1?'다음 ▶':'시작! 🎉'}</button></div></div>`;
   o.querySelector('.tsk').onclick=end;o.querySelector('.tnx').onclick=()=>{if(++i>=TUT.length)end();else draw()}};draw()}
 {const st0=start;start=function(gs,p0h){const r=st0.apply(this,arguments);if(!gs&&!SV.tut)setTimeout(tutOpen,400);return r}}
+{const b=document.createElement('button');b.textContent='🗑 처음부터 다시 (저장 초기화)';b.className='tutre tutrs';b.onclick=()=>{if(!confirm('코인·승리·해금한 종족·영웅 꾸미기가 모두 지워지고 처음 상태로 돌아가요. 정말 초기화할까요?'))return;try{localStorage.removeItem(SAVE_KEY)}catch(e){}location.reload()};const tb=document.querySelector('#tipm .tipb');if(tb)tb.prepend(b)}
+if(/[?&]reset=1/.test(location.search)){try{localStorage.removeItem(SAVE_KEY)}catch(e){}location.replace(location.pathname)}
 {const b=document.createElement('button');b.textContent='📘 튜토리얼 다시 보기';b.className='tutre';b.onclick=()=>{SV.tut=0;svSave();toast('📘 다음 판을 시작할 때 튜토리얼이 다시 나와요')};const tb=document.querySelector('#tipm .tipb');if(tb)tb.prepend(b)}
 
 renderTitle();

diff --git a/css/style.css b/css/style.css
@@ -198,9 +198,6 @@ footer{background:linear-gradient(#1b1846,#0b0a24);border-top:2px solid #000}
 #eres tr.win td{background:linear-gradient(#78350f,#451a03);color:#fde047}
 #eres tr.me td{box-shadow:inset 0 2px 0 #34d399,inset 0 -2px 0 #34d399}#eres tr.me td:first-child{box-shadow:inset 2px 2px 0 #34d399,inset 0 -2px 0 #34d399}#eres tr.me td:last-child{box-shadow:inset -2px 2px 0 #34d399,inset 0 -2px 0 #34d399}
 
-/* 도감 일러스트 카드: 큰 그림 + 왼쪽 아래 3D 작은 창 */
-.ci img.ill{position:absolute;inset:0;width:100%;height:100%;object-fit:cover;border-radius:inherit;z-index:1}
-.ci img.d3{position:absolute;left:4px;bottom:4px;width:36%;height:auto;z-index:2;background:#ffffffcc;border-radius:10px;border:2px solid #fff;box-shadow:0 2px 6px #0006}
 
 /* 📘 튜토리얼 */
 #tut{position:fixed;inset:0;z-index:60;display:flex;align-items:flex-end;justify-content:center;padding:16px 16px 34vh;background:#0006;pointer-events:auto}
@@ -212,3 +209,4 @@ footer{background:linear-gradient(#1b1846,#0b0a24);border-top:2px solid #000}
 @keyframes tutpl{50%{outline-color:#ff7aa8}}@keyframes tutin{from{transform:translateY(20px);opacity:0}}
 .tutre{width:100%;margin:0 0 8px;padding:10px;border-radius:14px;border:2px solid #000;background:#ffcf3a;font-weight:800;font-size:15px}
 #tut.top{align-items:flex-start;padding-top:12vh}
+.tutrs{background:#fecaca;color:#7f1d1d}
